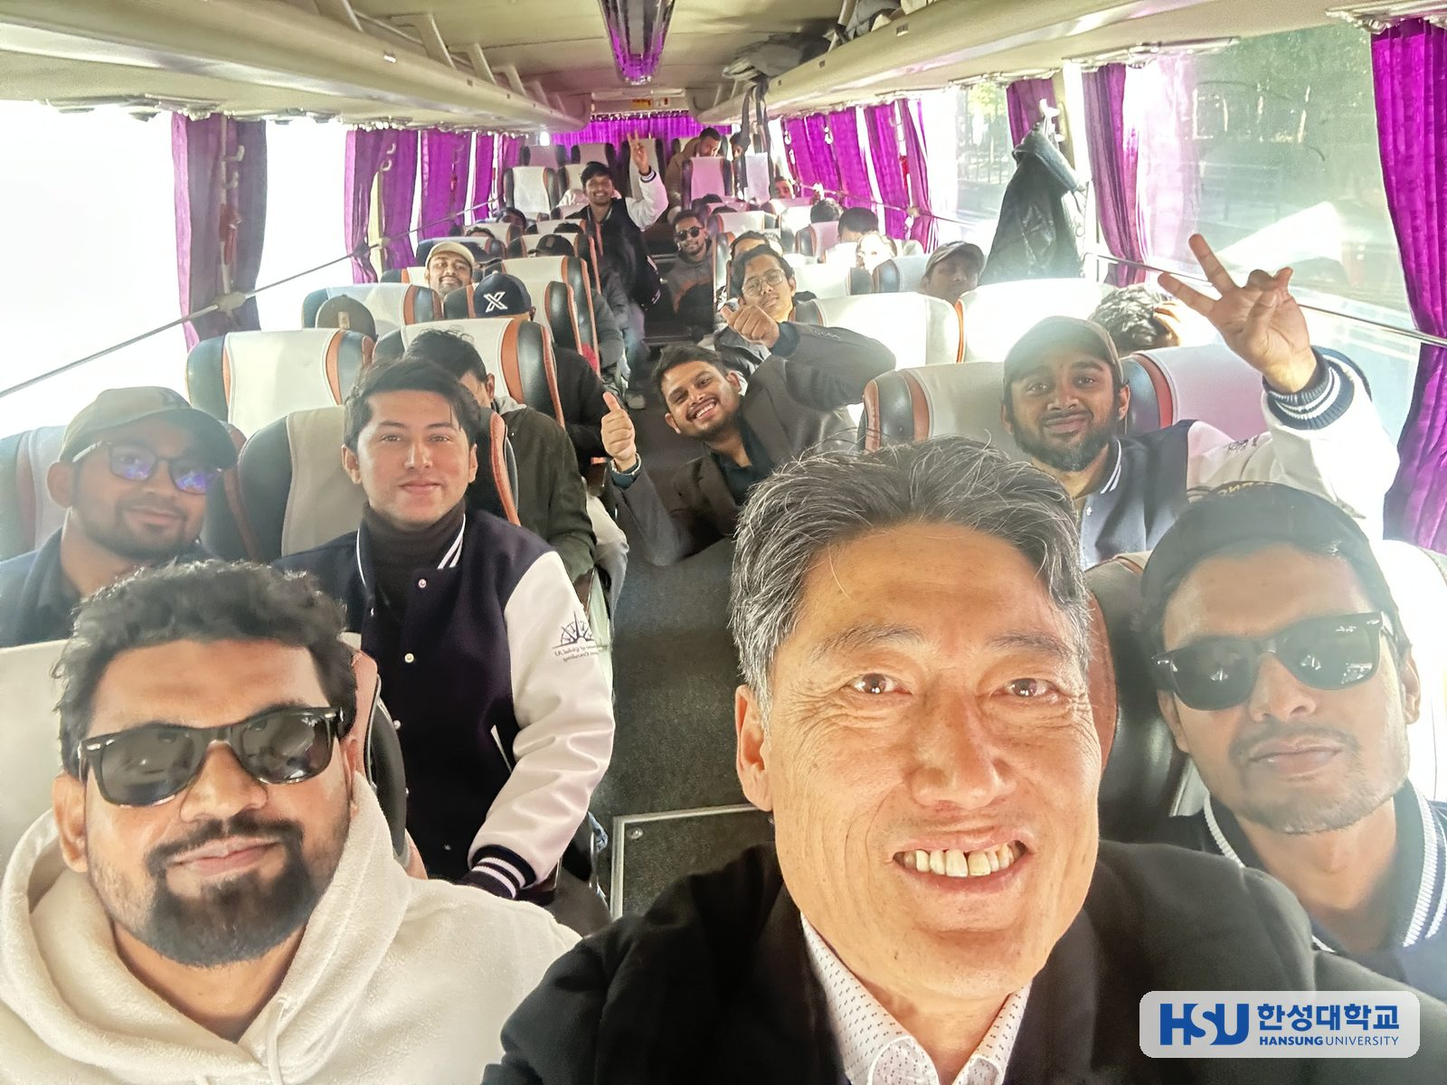
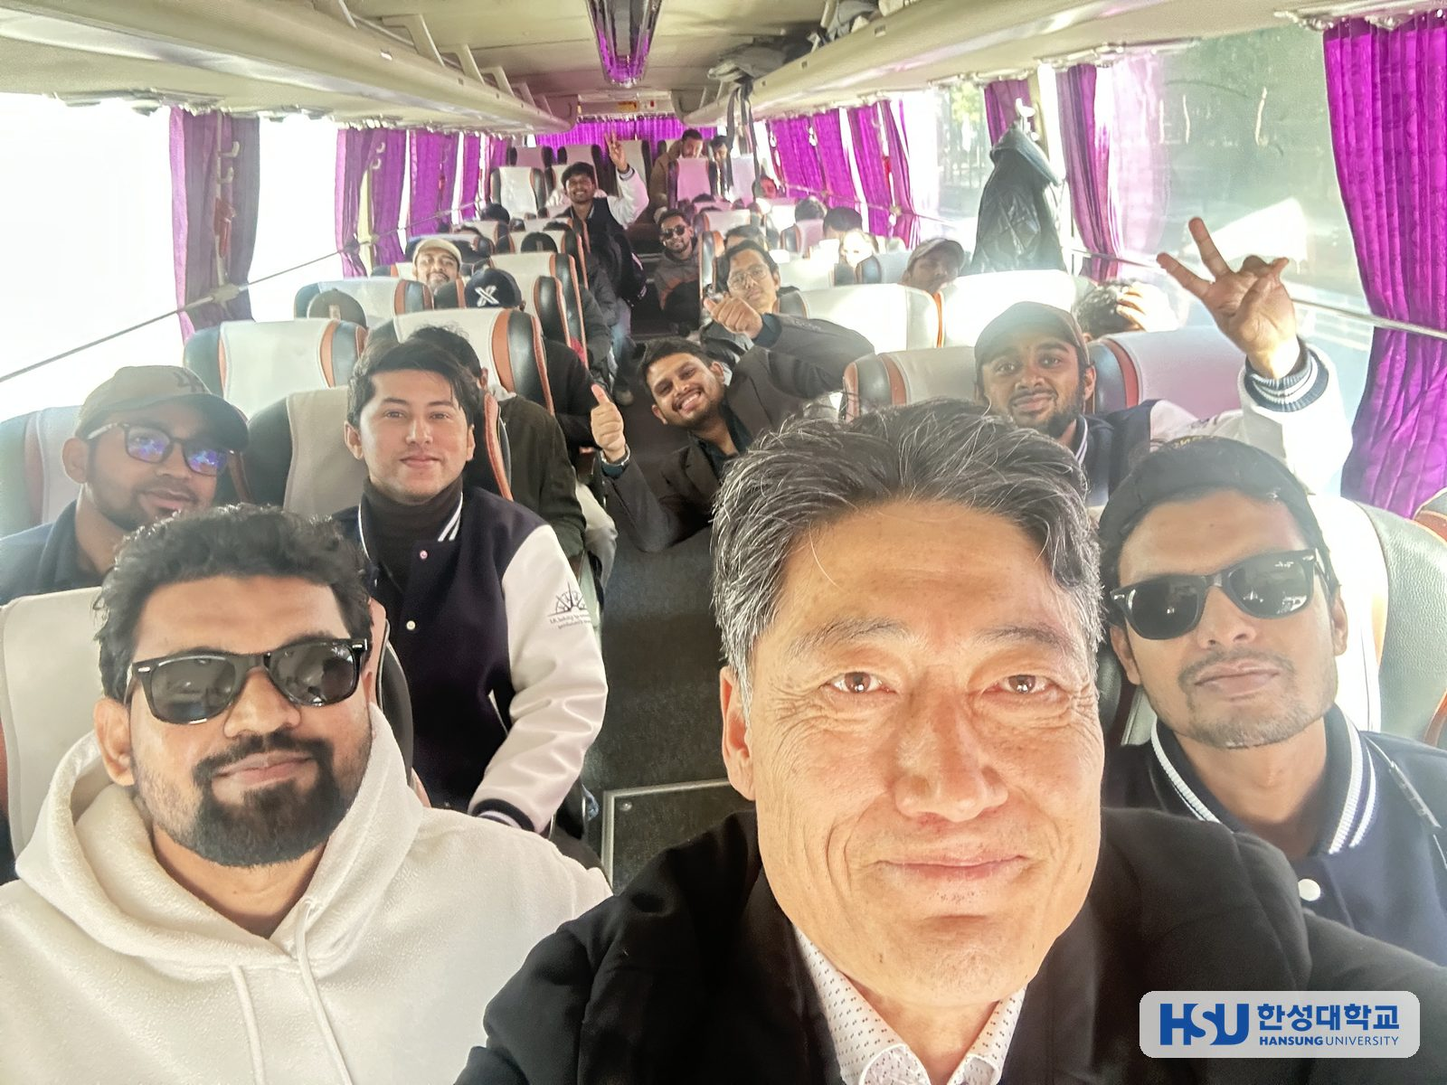
남이섬 추계 학술세미나: 인솔 교수진·참가 학생·영상 제작자 반영, 단체사진·버스 사진 교체, 사진 설명 수정
Claude-Session: https://claude.ai/code/session_01HMey6AxSia8nhKifNZeuAW

diff --git a/src/events/items/2026-11-06-autumn-seminar-nami.md b/src/events/items/2026-11-06-autumn-seminar-nami.md
@@ -3,7 +3,7 @@ title: 2026 추계 학술세미나(남이섬)
 title_en: 2026 Autumn Academic Seminar on Nami Island
 date: 2026-11-06
 place: 호텔 정관루 세미나실, 남이섬(강원 춘천)
-participants: 학과 대학원생, 교수진
+participants: 영어트랙과정 1·2학기 학생(방글라데시·베트남), 인솔 교수진 5명
 summary: 학생들이 2026 산업 AI EXPO 현장학습에서 얻은 통찰을 발표하고, 학생이 만든 영문 학과 홍보 영상을 함께 소개했다.
 status: done
 cover: /images/events/20261106_nami_17.jpg
@@ -18,8 +18,8 @@ gallery:
   caption: 세미나실에 모인 학생들
   group: 학술세미나
 - image: /images/events/20261106_nami_02.jpg
-  alt: 세미나 시작 전 학생들과 이야기를 나누는 교수
-  caption: 세미나 시작 전 학생들과 이야기를 나누는 교수
+  alt: 세미나 시작 전 학생들과 이야기를 나누는 정진택 원장
+  caption: 세미나 시작 전 학생들과 이야기를 나누는 정진택 원장
   group: 학술세미나
 - image: /images/events/20261106_nami_03.jpg
   alt: '발표 「Bridging Visions: Our Journey Through AI Expo Korea 2026」 표지'
@@ -50,12 +50,12 @@ gallery:
   caption: 세미나실을 가득 채운 참석자들
   group: 학술세미나
 - image: /images/events/20261106_nami_10.jpg
-  alt: 세미나를 마무리하며 진행하는 순서
-  caption: 세미나를 마무리하며 진행하는 순서
+  alt: 세미나를 마무리하는 Akram SM 학생(왼쪽)과 정진택 원장(오른쪽)
+  caption: 세미나를 마무리하는 Akram SM 학생(왼쪽)과 정진택 원장(오른쪽)
   group: 학술세미나
 - image: /images/events/20261106_nami_11.jpg
-  alt: 학생에게 기념품을 전달하는 모습
-  caption: 학생에게 기념품을 전달하는 모습
+  alt: 학생들이 교수진에게 기념품을 전달하는 모습
+  caption: 학생들이 교수진에게 기념품을 전달하는 모습
   group: 학술세미나
 - image: /images/events/20261106_nami_12.jpg
   alt: '「Industrial AI in Action」 표지: 2026 산업 AI EXPO 개요와 핵심 인사이트'
@@ -78,12 +78,12 @@ gallery:
   caption: 엑스포 경험과 향후 계획
   group: 발표 자료 · Akram SM
 - image: /images/events/20261106_nami_17.jpg
-  alt: 세미나실에서 「2026 추계 학술세미나」 현수막을 들고 함께한 전체 단체사진
-  caption: 세미나실에서 「2026 추계 학술세미나」 현수막을 들고 함께한 전체 단체사진
+  alt: 세미나실에서 「2026 추계 학술세미나」 현수막을 들고 함께한 인솔 교수진과 학생들
+  caption: 세미나실에서 「2026 추계 학술세미나」 현수막을 들고 함께한 인솔 교수진과 학생들
   group: 기념사진
 - image: /images/events/20261106_nami_18.jpg
-  alt: 세미나실 단체사진
-  caption: 세미나실 단체사진
+  alt: 현수막 뒤 가운데에 앉은 인솔 교수진(정진택 원장, 박양수·권연재·김내영 교수, 한필연 특강연사)과 학생들
+  caption: 현수막 뒤 가운데에 앉은 인솔 교수진(정진택 원장, 박양수·권연재·김내영 교수, 한필연 특강연사)과 학생들
   group: 기념사진
 - image: /images/events/20261106_nami_19.jpg
   alt: 남이섬에서 현수막을 들고 찍은 단체사진
@@ -124,14 +124,14 @@ gallery:
 videos:
 - src: /files/videos/20261106_nami_promo_en.mp4
   poster: /images/events/20261106_nami_promo.jpg
-  caption: 학생이 제작한 학과 홍보 영상(영문, 2분 48초)
+  caption: Akram SM 학생이 제작한 학과 홍보 영상(영문, 2분 48초)
 program:
 - time: 발표 1
   text: 'Mouedul Haque Shawon 외, 「Bridging Visions: Our Journey Through AI Expo Korea 2026」'
 - time: 발표 2
   text: 'Akram SM, 「Industrial AI in Action: Expo Overview & Key Insights」'
 - time: 영상
-  text: 학생 제작 학과 홍보 영상(영문) 상영
+  text: Akram SM 학생이 제작한 학과 홍보 영상(영문) 상영
 links:
 - label: '발표 자료: Akram SM, 「Industrial AI in Action: Expo Overview & Key Insights」(PDF, 16쪽)'
   url: /files/events/20261106_akram_industrial-ai-in-action.pdf
@@ -141,11 +141,11 @@ topics: []
 speakers: []
 faculty: []
 partners: []
-memo: '2026. 11. 7. 학과장 지시로 게시(학술세미나 중심). 자료는 드라이브 「2026년 추계 학술세미나(남이섬)」 폴더(현수막 PDF·PPTX, Akram 폴더의 발표 PPT·영상, 권연재·김내영·박양수·한필연 폴더 사진 64장 — 박양수 폴더는 DNG 원본). 행사명·일시·장소는 현수막 기준. 발표자 2명(학과장 전달): 발표 제목과 이름은 발표 화면 표기(Mouedul Haque Shawon & Team, Akram SM). Akram 발표 PPT(이미지 16장)는 PDF로 첨부. 학생 제작 영문 홍보 영상(2분 48초, HEVC 1080p)은 웹 재생용 H.264 720p로 변환 — 제작 학생 이름은 확인 전이라 기재하지 않음. 교수진 개인 이름과 기념품 전달자 이름은 확인 자료가 없어 쓰지 않음. 사진 23장에 워터마크, 발표 슬라이드 5장은 원본 그대로'
+memo: '2026. 11. 7. 학과장 지시로 게시(학술세미나 중심). 자료는 드라이브 「2026년 추계 학술세미나(남이섬)」 폴더(현수막 PDF·PPTX, Akram 폴더의 발표 PPT·영상, 권연재·김내영·박양수·한필연 폴더 사진 64장 — 박양수 폴더는 DNG 원본). 행사명·일시·장소는 현수막 기준. 발표자 2명(학과장 전달): 발표 제목과 이름은 발표 화면 표기(Mouedul Haque Shawon & Team, Akram SM). Akram 발표 PPT(이미지 16장)는 PDF로 첨부. 학생 제작 영문 홍보 영상(2분 48초, HEVC 1080p)은 웹 재생용 H.264 720p로 변환 — 영상 제작자 Akram SM, 인솔 교수진 5명(정진택 원장, 박양수·권연재·김내영 교수, 한필연 특강연사), 참가 학생(영어트랙 1·2학기, 방글라데시·베트남), 마무리 사진 인물(Akram SM·정진택 원장)과 기념품 전달(학생→교수진)은 2026. 11. 7. 학과장 전달. 세미나실 단체사진은 학과장 요청으로 교수진이 모두 보이는 컷(IMG_9156, DNG 원본)으로 교체하고 교수진 확대 컷 추가, 버스 사진은 IMG_9126으로 교체. 사진 23장에 워터마크, 발표 슬라이드 5장은 원본 그대로'
 en:
   title: 2026 Autumn Academic Seminar on Nami Island
   place: Hotel Jeonggwanru seminar hall, Nami Island (Chuncheon, Gangwon)
-  participants: Graduate students and faculty
+  participants: English-track students in semesters 1–2 (Bangladesh, Vietnam) and five faculty leaders
   summary: Students presented insights from their field learning at the Industrial AI EXPO 2026, and a department promotional video made by a student was introduced.
   cover_alt: Faculty and graduate students with the 2026 Autumn Academic Seminar banner in the Jeonggwanru seminar hall, Nami Island
   gallery:
@@ -158,8 +158,8 @@ en:
     caption: Students gathering in the seminar hall
     group: The seminar
   - image: /images/events/20261106_nami_02.jpg
-    alt: A professor talking with students before the seminar
-    caption: A professor talking with students before the seminar
+    alt: Dean Jung Jin-taek talking with students before the seminar
+    caption: Dean Jung Jin-taek talking with students before the seminar
     group: The seminar
   - image: /images/events/20261106_nami_03.jpg
     alt: 'Title slide of “Bridging Visions: Our Journey Through AI Expo Korea 2026”'
@@ -190,12 +190,12 @@ en:
     caption: A full seminar hall
     group: The seminar
   - image: /images/events/20261106_nami_10.jpg
-    alt: Closing session of the seminar
-    caption: Closing session of the seminar
+    alt: Akram SM (left) and Dean Jung Jin-taek (right) closing the seminar
+    caption: Akram SM (left) and Dean Jung Jin-taek (right) closing the seminar
     group: The seminar
   - image: /images/events/20261106_nami_11.jpg
-    alt: Presenting a gift to a student
-    caption: Presenting a gift to a student
+    alt: Students presenting a gift to the faculty
+    caption: Students presenting a gift to the faculty
     group: The seminar
   - image: /images/events/20261106_nami_12.jpg
     alt: '“Industrial AI in Action”: Expo overview and key insights'
@@ -218,12 +218,12 @@ en:
     caption: Our Expo journey and future plan
     group: Slides · Akram SM
   - image: /images/events/20261106_nami_17.jpg
-    alt: Group photo with the seminar banner in the hall
-    caption: Group photo with the seminar banner in the hall
+    alt: Faculty and students with the seminar banner in the hall
+    caption: Faculty and students with the seminar banner in the hall
     group: Group photos
   - image: /images/events/20261106_nami_18.jpg
-    alt: Group photo in the seminar hall
-    caption: Group photo in the seminar hall
+    alt: Faculty leaders seated behind the banner (Dean Jung Jin-taek, Professors Park Yang Soo, Kwon Yeonjae and Kim Nae Young, and guest speaker Han Pil-Yeoun) with students
+    caption: Faculty leaders seated behind the banner (Dean Jung Jin-taek, Professors Park Yang Soo, Kwon Yeonjae and Kim Nae Young, and guest speaker Han Pil-Yeoun) with students
     group: Group photos
   - image: /images/events/20261106_nami_19.jpg
     alt: Group photo with the banner on Nami Island
@@ -264,31 +264,31 @@ en:
   videos:
   - src: /files/videos/20261106_nami_promo_en.mp4
     poster: /images/events/20261106_nami_promo.jpg
-    caption: Department promotional video made by a student (English, 2:48)
+    caption: Department promotional video made by Akram SM (English, 2:48)
   program:
   - time: Talk 1
     text: 'Mouedul Haque Shawon and team, “Bridging Visions: Our Journey Through AI Expo Korea 2026”'
   - time: Talk 2
     text: 'Akram SM, “Industrial AI in Action: Expo Overview & Key Insights”'
   - time: Video
-    text: Screening of a student-made department video (English)
+    text: Screening of the department video made by Akram SM (English)
   links:
   - label: 'Slides: Akram SM, “Industrial AI in Action: Expo Overview & Key Insights” (PDF, 16 pages)'
     url: /files/events/20261106_akram_industrial-ai-in-action.pdf
   - label: Field learning at the Industrial AI EXPO 2026
     url: /events/industrial-ai-expo/
   body: |
-    On Friday, November 6, 2026, the Department of Global AI Management Consulting at Hansung University's Graduate School of Knowledge Service & Consulting held its 2026 Autumn Academic Seminar in the Jeonggwanru seminar hall on Nami Island. The seminar is where students share, through research and presentations, what they have seen and learned in field programs during the semester; graduate students and faculty attended together.
+    On Friday, November 6, 2026, the Department of Global AI Management Consulting at Hansung University's Graduate School of Knowledge Service & Consulting held its 2026 Autumn Academic Seminar in the Jeonggwanru seminar hall on Nami Island. The seminar is where students share, through research and presentations, what they have seen and learned in field programs during the semester; first- and second-semester students of the English track (from Bangladesh and Vietnam) attended with the faculty leading the program: Dean Jung Jin-taek, Professors Park Yang Soo, Kwon Yeonjae and Kim Nae Young, and guest speaker Han Pil-Yeoun.
 
     The seminar centered on the Industrial AI EXPO 2026, which students visited in October. Mouedul Haque Shawon and team presented “Bridging Visions: Our Journey Through AI Expo Korea 2026,” tracing the path from first contact with companies at the Expo to possible future collaboration. In “Industrial AI in Action: Expo Overview & Key Insights,” Akram SM summarized the technologies and company cases seen at the Expo by field, including physical AI, AI manufacturing, AI logistics and smart energy, and set out the collaboration opportunities gained through company networking and next steps.
 
-    A department promotional video in English, made by one of the students, was also introduced at the seminar. It shows the department and its studies through students' eyes and can be viewed in the video section below.
+    A department promotional video in English made by Akram SM was also introduced at the seminar. It shows the department and its studies through a student's eyes and can be viewed in the video section below. At the close of the seminar, students presented gifts to the faculty as a token of thanks.
 
     Before the seminar, participants explored Nami Island together and enjoyed the late-autumn scenery. The department plans to make activities linking field learning and academic presentations a regular part of the program, helping students turn insights from industry into research skills and career plans.
 vi:
   title: Hội thảo học thuật mùa thu 2026 tại đảo Nami
   place: Hội trường khách sạn Jeonggwanru, đảo Nami (Chuncheon, Gangwon)
-  participants: Học viên cao học và giảng viên
+  participants: Học viên chương trình tiếng Anh học kỳ 1–2 (Bangladesh, Việt Nam) và 5 giảng viên dẫn đoàn
   summary: Sinh viên trình bày những hiểu biết từ chuyến tham quan Triển lãm AI Công nghiệp 2026 và giới thiệu video về khoa do sinh viên thực hiện.
   cover_alt: Giảng viên và học viên cao học cùng băng rôn Hội thảo học thuật mùa thu 2026 tại hội trường Jeonggwanru, đảo Nami
   gallery:
@@ -301,8 +301,8 @@ vi:
     caption: Sinh viên tập trung tại hội trường
     group: Hội thảo
   - image: /images/events/20261106_nami_02.jpg
-    alt: Giảng viên trò chuyện cùng sinh viên trước hội thảo
-    caption: Giảng viên trò chuyện cùng sinh viên trước hội thảo
+    alt: Viện trưởng Jung Jin-taek trò chuyện cùng sinh viên trước hội thảo
+    caption: Viện trưởng Jung Jin-taek trò chuyện cùng sinh viên trước hội thảo
     group: Hội thảo
   - image: /images/events/20261106_nami_03.jpg
     alt: 'Trang bìa bài “Bridging Visions: Our Journey Through AI Expo Korea 2026”'
@@ -333,12 +333,12 @@ vi:
     caption: Hội trường kín chỗ
     group: Hội thảo
   - image: /images/events/20261106_nami_10.jpg
-    alt: Phần kết thúc hội thảo
-    caption: Phần kết thúc hội thảo
+    alt: Akram SM (trái) và Viện trưởng Jung Jin-taek (phải) kết thúc hội thảo
+    caption: Akram SM (trái) và Viện trưởng Jung Jin-taek (phải) kết thúc hội thảo
     group: Hội thảo
   - image: /images/events/20261106_nami_11.jpg
-    alt: Trao quà lưu niệm cho sinh viên
-    caption: Trao quà lưu niệm cho sinh viên
+    alt: Sinh viên tặng quà lưu niệm cho giảng viên
+    caption: Sinh viên tặng quà lưu niệm cho giảng viên
     group: Hội thảo
   - image: /images/events/20261106_nami_12.jpg
     alt: '“Industrial AI in Action”: Tổng quan triển lãm và những điểm chính'
@@ -361,12 +361,12 @@ vi:
     caption: Hành trình tại triển lãm và kế hoạch tiếp theo
     group: Bài trình bày · Akram SM
   - image: /images/events/20261106_nami_17.jpg
-    alt: Ảnh tập thể cùng băng rôn hội thảo tại hội trường
-    caption: Ảnh tập thể cùng băng rôn hội thảo tại hội trường
+    alt: Giảng viên và sinh viên cùng băng rôn hội thảo tại hội trường
+    caption: Giảng viên và sinh viên cùng băng rôn hội thảo tại hội trường
     group: Ảnh tập thể
   - image: /images/events/20261106_nami_18.jpg
-    alt: Ảnh tập thể tại hội trường
-    caption: Ảnh tập thể tại hội trường
+    alt: Các giảng viên dẫn đoàn ngồi sau băng rôn (Viện trưởng Jung Jin-taek, GS. Park Yang Soo, Kwon Yeonjae, Kim Nae Young và diễn giả Han Pil-Yeoun) cùng sinh viên
+    caption: Các giảng viên dẫn đoàn ngồi sau băng rôn (Viện trưởng Jung Jin-taek, GS. Park Yang Soo, Kwon Yeonjae, Kim Nae Young và diễn giả Han Pil-Yeoun) cùng sinh viên
     group: Ảnh tập thể
   - image: /images/events/20261106_nami_19.jpg
     alt: Ảnh tập thể cùng băng rôn trên đảo Nami
@@ -407,32 +407,32 @@ vi:
   videos:
   - src: /files/videos/20261106_nami_promo_en.mp4
     poster: /images/events/20261106_nami_promo.jpg
-    caption: Video giới thiệu khoa do sinh viên thực hiện (tiếng Anh, 2:48)
+    caption: Video giới thiệu khoa do Akram SM thực hiện (tiếng Anh, 2:48)
   program:
   - time: Bài 1
     text: 'Mouedul Haque Shawon và nhóm, “Bridging Visions: Our Journey Through AI Expo Korea 2026”'
   - time: Bài 2
     text: 'Akram SM, “Industrial AI in Action: Expo Overview & Key Insights”'
   - time: Video
-    text: Chiếu video giới thiệu khoa do sinh viên thực hiện (tiếng Anh)
+    text: Chiếu video giới thiệu khoa do Akram SM thực hiện (tiếng Anh)
   links:
   - label: 'Bài trình bày: Akram SM, “Industrial AI in Action: Expo Overview & Key Insights” (PDF, 16 trang)'
     url: /files/events/20261106_akram_industrial-ai-in-action.pdf
   - label: Hoạt động tham quan Triển lãm AI Công nghiệp 2026
     url: /events/industrial-ai-expo/
   body: |
-    Ngày 06/11/2026 (thứ Sáu), Khoa Tư vấn Quản trị AI Toàn cầu thuộc Viện Cao học Dịch vụ Tri thức & Tư vấn, Đại học Hansung đã tổ chức Hội thảo học thuật mùa thu 2026 tại hội trường Jeonggwanru trên đảo Nami. Đây là dịp sinh viên chia sẻ, thông qua nghiên cứu và thuyết trình, những gì đã quan sát và học được trong các hoạt động thực tế của học kỳ, với sự tham dự của học viên cao học và giảng viên.
+    Ngày 06/11/2026 (thứ Sáu), Khoa Tư vấn Quản trị AI Toàn cầu thuộc Viện Cao học Dịch vụ Tri thức & Tư vấn, Đại học Hansung đã tổ chức Hội thảo học thuật mùa thu 2026 tại hội trường Jeonggwanru trên đảo Nami. Đây là dịp sinh viên chia sẻ, thông qua nghiên cứu và thuyết trình, những gì đã quan sát và học được trong các hoạt động thực tế của học kỳ, với sự tham dự của học viên học kỳ 1 và 2 chương trình tiếng Anh (đến từ Bangladesh và Việt Nam) cùng các giảng viên dẫn đoàn: Viện trưởng Jung Jin-taek, GS. Park Yang Soo, Kwon Yeonjae, Kim Nae Young và diễn giả khách mời Han Pil-Yeoun.
 
     Chủ đề trọng tâm của hội thảo là Triển lãm AI Công nghiệp 2026 mà sinh viên đã tham quan vào tháng 10. Mouedul Haque Shawon và nhóm trình bày “Bridging Visions: Our Journey Through AI Expo Korea 2026”, từ lần tiếp xúc đầu tiên với doanh nghiệp tại triển lãm đến khả năng hợp tác trong tương lai. Trong bài “Industrial AI in Action: Expo Overview & Key Insights”, Akram SM tổng hợp công nghệ và các trường hợp doanh nghiệp theo từng lĩnh vực như Physical AI, sản xuất AI, logistics AI và năng lượng thông minh, đồng thời nêu các cơ hội hợp tác từ hoạt động kết nối doanh nghiệp và kế hoạch tiếp theo.
 
-    Tại hội thảo, video giới thiệu khoa bằng tiếng Anh do một sinh viên tự thực hiện cũng được giới thiệu. Video thể hiện hình ảnh khoa và quá trình học tập qua góc nhìn của sinh viên, có thể xem ở phần video bên dưới.
+    Tại hội thảo, video giới thiệu khoa bằng tiếng Anh do Akram SM tự thực hiện cũng được giới thiệu. Video thể hiện hình ảnh khoa và quá trình học tập qua góc nhìn của sinh viên, có thể xem ở phần video bên dưới. Kết thúc hội thảo, sinh viên đã tặng quà lưu niệm để cảm ơn các giảng viên.
 
     Trước hội thảo, các thành viên cùng tham quan đảo Nami và giao lưu giữa khung cảnh cuối thu. Khoa dự kiến duy trì thường xuyên các hoạt động kết nối học tập thực tế với thuyết trình học thuật, giúp sinh viên chuyển những hiểu biết từ doanh nghiệp thành năng lực nghiên cứu và định hướng nghề nghiệp.
 ---
-한성대학교 지식서비스&컨설팅대학원 글로벌AI경영컨설팅학과는 2026년 11월 6일(금) 남이섬 호텔 정관루 세미나실에서 「2026 추계 학술세미나」를 열었다. 학생들이 학기 중 현장학습에서 보고 배운 내용을 연구와 발표로 정리해 공유하는 자리로, 대학원생과 교수진이 함께했다.
+한성대학교 지식서비스&컨설팅대학원 글로벌AI경영컨설팅학과는 2026년 11월 6일(금) 남이섬 호텔 정관루 세미나실에서 「2026 추계 학술세미나」를 열었다. 학생들이 학기 중 현장학습에서 보고 배운 내용을 연구와 발표로 정리해 공유하는 자리로, 영어트랙과정 1·2학기 학생들(방글라데시·베트남 출신)과 정진택 원장, 박양수·권연재·김내영 교수, 한필연 특강연사 등 인솔 교수진이 함께했다.
 
 이번 세미나의 중심 주제는 10월 학생들이 참관한 「2026 산업 AI EXPO」였다. Mouedul Haque Shawon 학생과 팀은 「Bridging Visions: Our Journey Through AI Expo Korea 2026」을 주제로, 엑스포에서 기업과 처음 만난 순간부터 이후 협력 가능성까지 이어지는 과정을 발표했다. Akram SM 학생은 「Industrial AI in Action: Expo Overview & Key Insights」에서 Physical AI, AI 제조, AI 물류, 스마트 에너지 등 분야별로 엑스포에서 확인한 기술과 기업 사례를 정리하고, 기업 네트워킹에서 얻은 협력 기회와 앞으로의 실행 계획을 제시했다.
 
-세미나에서는 한 학생이 직접 만든 영문 학과 홍보 영상도 함께 소개됐다. 학생들이 바라본 학과의 모습과 학업 과정을 담은 영상으로, 아래 현장 영상에서 볼 수 있다.
+세미나에서는 Akram SM 학생이 직접 만든 영문 학과 홍보 영상도 함께 소개됐다. 학생의 눈으로 바라본 학과의 모습과 학업 과정을 담은 영상으로, 아래 현장 영상에서 볼 수 있다. 세미나를 마치며 학생들은 교수진에게 감사의 뜻을 담은 기념품을 전달했다.
 
 세미나에 앞서 참가자들은 남이섬을 함께 둘러보며 늦가을 풍경 속에서 서로 교류했다. 학과는 현장학습과 학술 발표를 잇는 활동을 정례화해, 학생들이 산업 현장에서 얻은 통찰을 연구 역량과 진로 설계로 연결하도록 지원할 계획이다.
